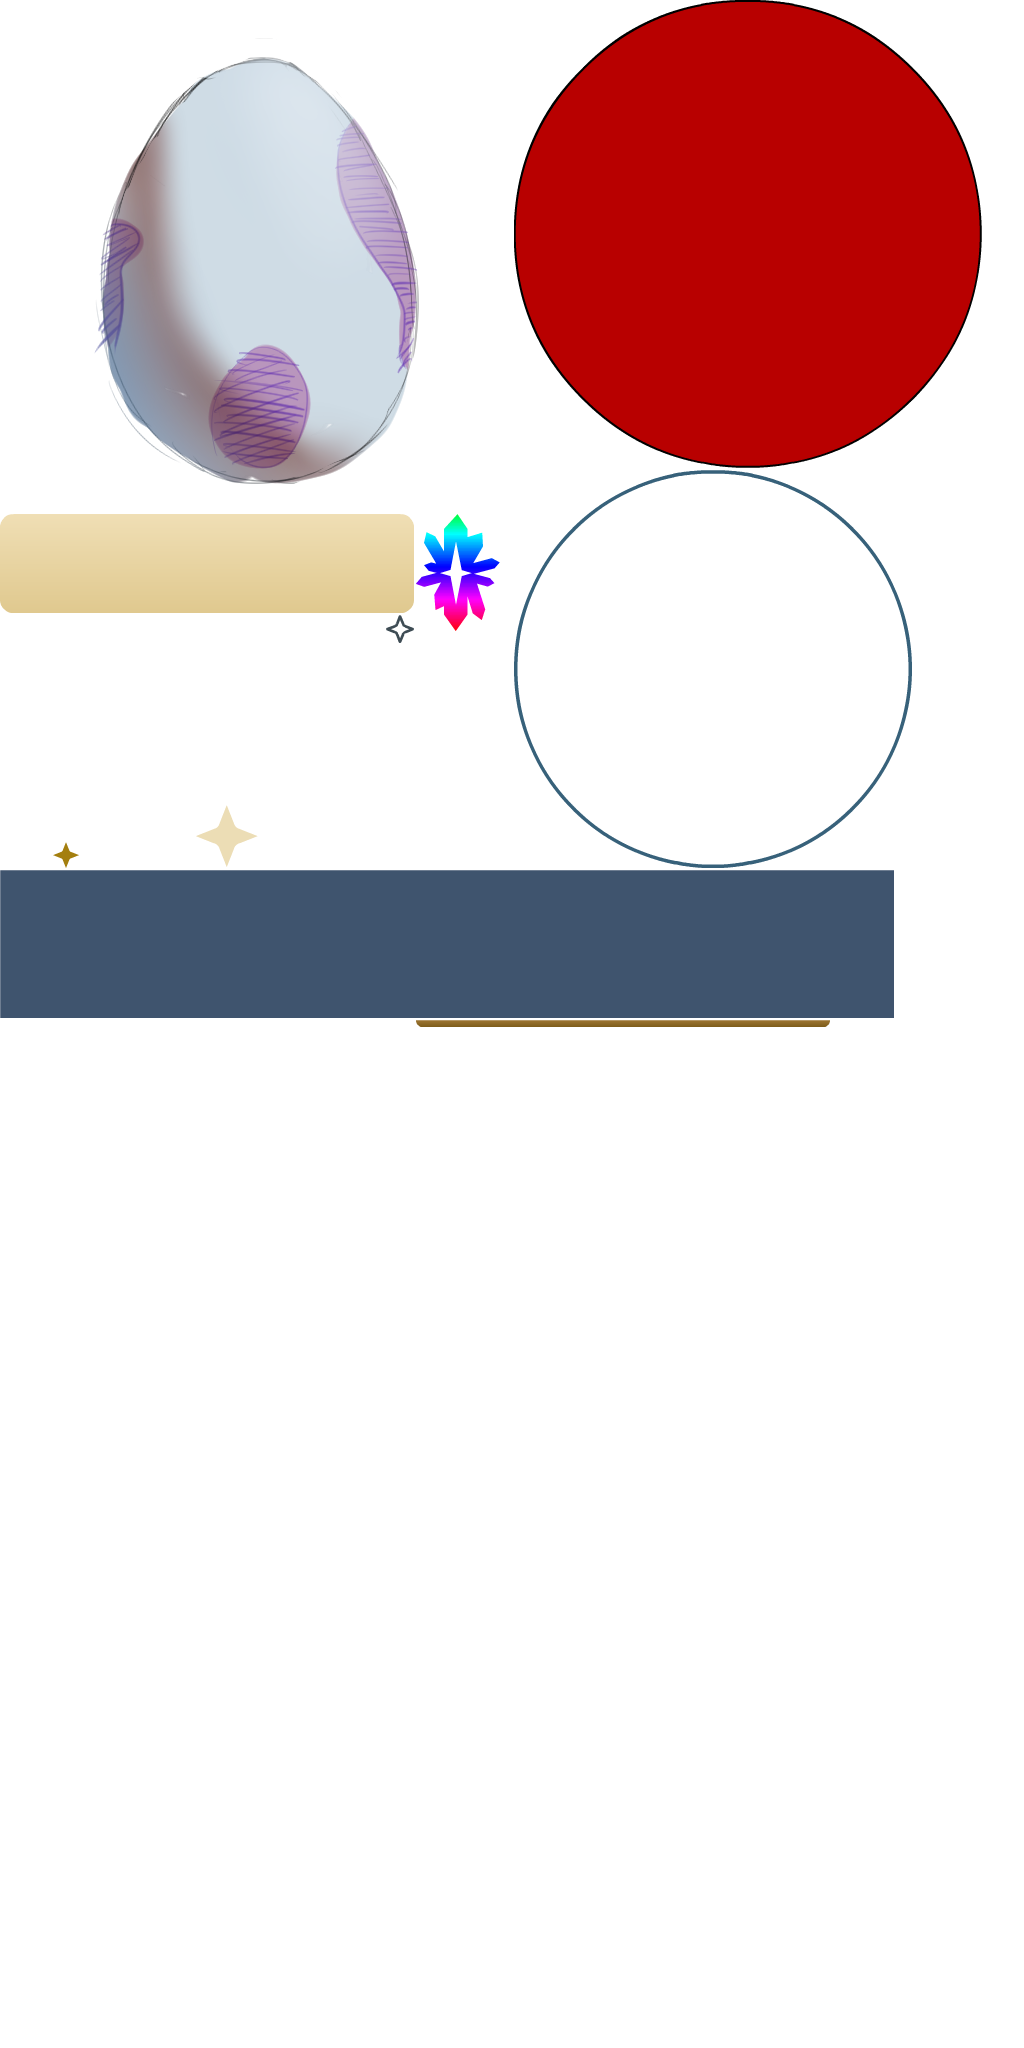
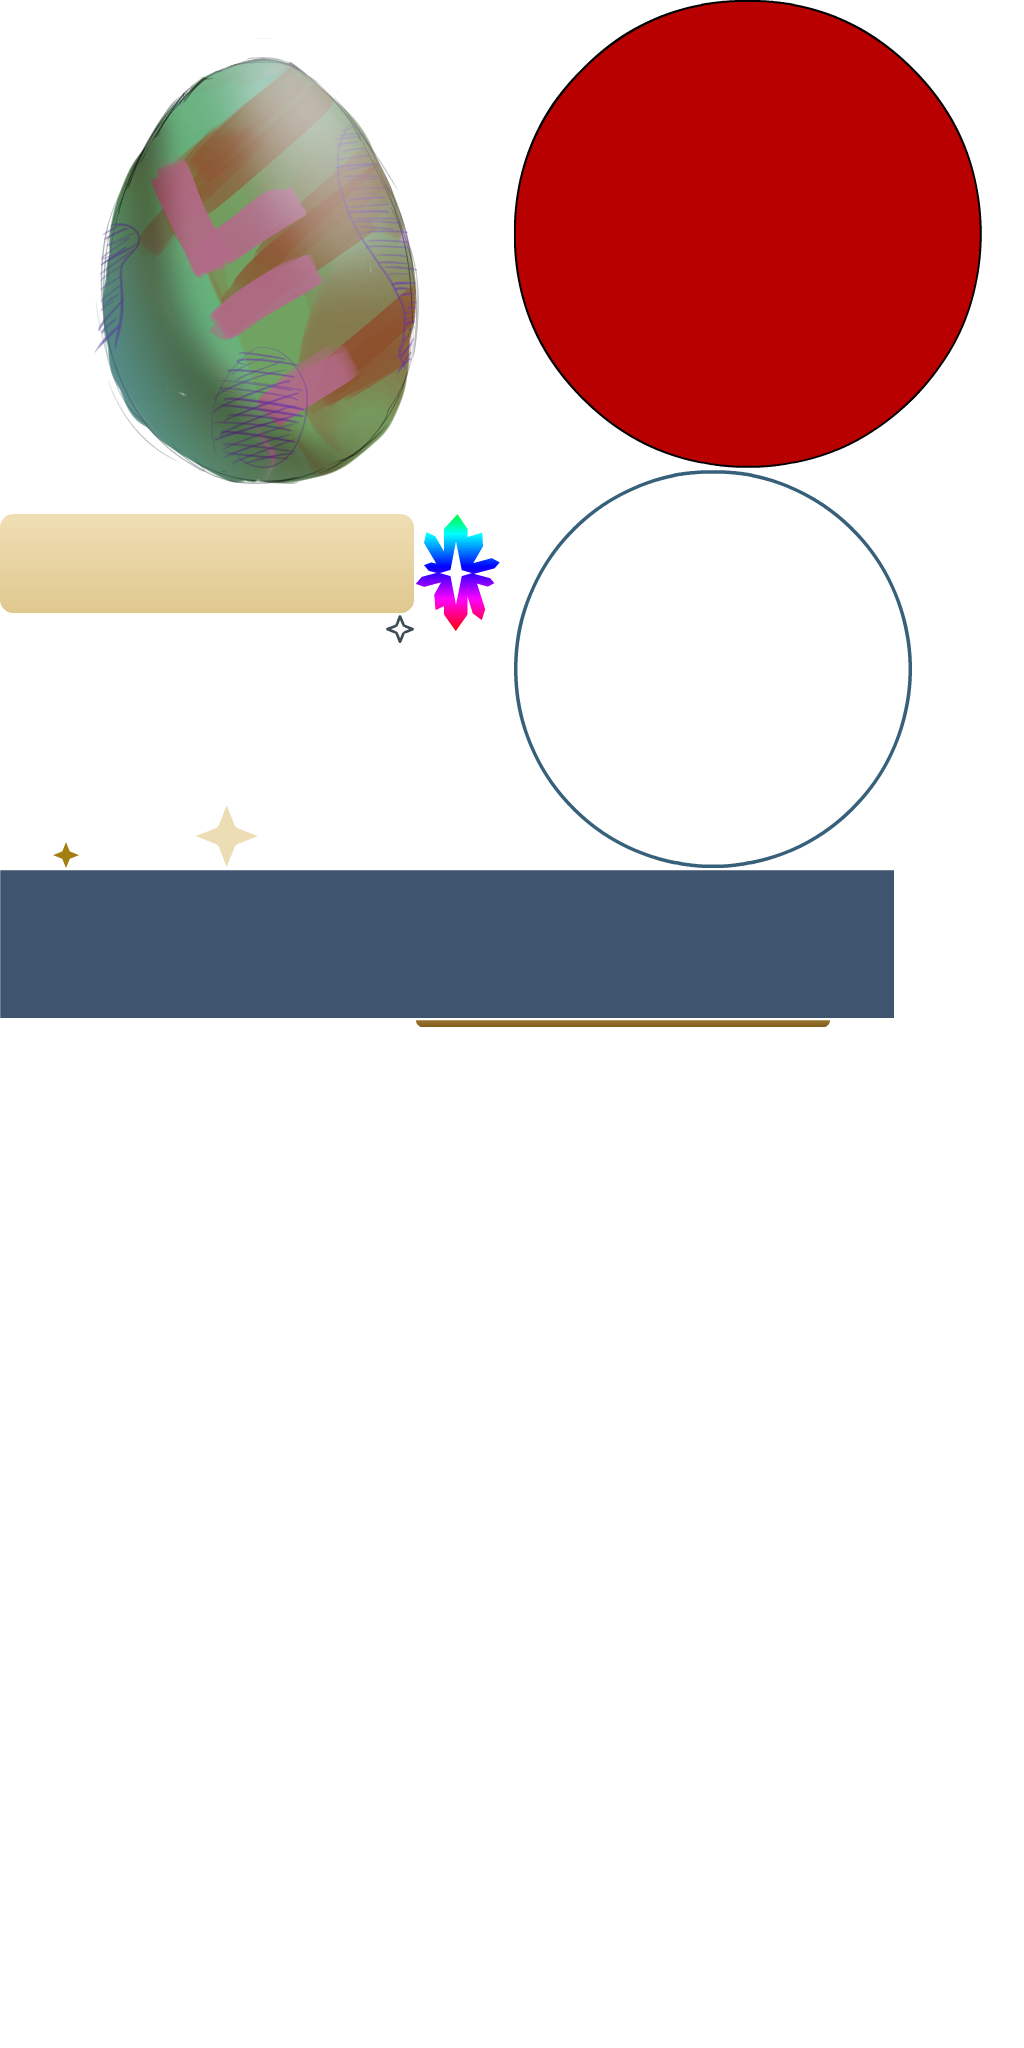
usernamesfixes

Changed region(s): [[0.0938, 0.0312, 0.4062, 0.25]]

diff --git a/index.js b/index.js
@@ -4,7 +4,7 @@ var p; // shortcut to reference prototypes
 var lib={};var ss={};var img={};
 lib.ssMetadata = [
 		{name:"index_atlas_", frames: [[994,0,992,870],[0,0,992,870],[988,872,980,826],[0,872,986,832]]},
-		{name:"index_atlas_2", frames: [[944,770,939,519],[0,770,942,522],[944,1291,894,540],[0,0,768,768],[770,0,768,768],[0,1294,512,512]]},
+		{name:"index_atlas_2", frames: [[944,770,939,519],[0,770,942,522],[944,1291,894,540],[770,0,768,768],[0,1294,512,512],[0,0,768,768]]},
 		{name:"index_atlas_3", frames: [[514,470,398,398],[502,514,4,12],[81,842,29,21],[196,615,188,188],[416,514,84,117],[0,615,194,194],[0,811,51,51],[0,870,894,148],[0,1110,894,20],[196,805,62,62],[514,0,468,468],[53,842,26,26],[386,615,28,28],[0,514,414,99],[416,1020,414,7],[0,1020,414,88],[53,811,46,29],[0,0,512,512]]}
 ];
 
@@ -189,22 +189,22 @@ lib.ssMetadata = [
 
 
 (lib.eggsketches2 = function() {
-	this.initialize(ss["index_atlas_3"]);
-	this.gotoAndStop(17);
-}).prototype = p = new cjs.Sprite();
-
-
-
-(lib.SLUGGITY = function() {
 	this.initialize(ss["index_atlas_2"]);
 	this.gotoAndStop(4);
 }).prototype = p = new cjs.Sprite();
 
 
 
-(lib.terratortleegg = function() {
+(lib.SLUGGITY = function() {
 	this.initialize(ss["index_atlas_2"]);
 	this.gotoAndStop(5);
+}).prototype = p = new cjs.Sprite();
+
+
+
+(lib.terratortleegg = function() {
+	this.initialize(ss["index_atlas_3"]);
+	this.gotoAndStop(17);
 }).prototype = p = new cjs.Sprite();
 // helper functions:
 
@@ -686,15 +686,17 @@ p.nominalBounds = new cjs.Rectangle(0,-21.8,496,456.90000000000003);
 		            return o.slice(6);
 		        }
 		
-		        function usernameOf() {
-		            var u = exportRoot.user;
+		        
+				function usernameOf() {
+					var u = exportRoot.user;
 		
-		            if (!u || !u.username) {
-		                throw new Error("missing-username");
-		            }
+					if (!u || !u.username) {
+						throw new Error("missing-username");
+					}
 		
-		            return String(u.username);
-		        }
+					return String(u.username).trim().toLowerCase();
+				}
+		
 		
 		        function usernameDocumentUrl() {
 		            return FIRESTORE_ROOT +
@@ -15924,9 +15926,9 @@ lib.properties = {
 	color: "#0099CC",
 	opacity: 1.00,
 	manifest: [
-		{src:"images/index_atlas_.png?1791648689113", id:"index_atlas_"},
-		{src:"images/index_atlas_2.png?1791648689114", id:"index_atlas_2"},
-		{src:"images/index_atlas_3.png?1791648689114", id:"index_atlas_3"}
+		{src:"images/index_atlas_.png?1791649532236", id:"index_atlas_"},
+		{src:"images/index_atlas_2.png?1791649532236", id:"index_atlas_2"},
+		{src:"images/index_atlas_3.png?1791649532236", id:"index_atlas_3"}
 	],
 	preloads: []
 };

diff --git a/index.html b/index.html
@@ -22,7 +22,7 @@
   }
 </style>
 <script src="https://code.createjs.com/createjs-2015.11.26.min.js"></script>
-<script src="index.js?1791648689486"></script>
+<script src="index.js?1791649533468"></script>
 <script>
 var canvas, stage, exportRoot, anim_container, dom_overlay_container, fnStartAnimation;
 function init() {
@@ -75,6 +75,6 @@ function handleComplete(evt,comp) {
 		<div id="dom_overlay_container" style="pointer-events:none; overflow:hidden; width:1280px; height:720px; position: absolute; left: 0px; top: 0px; display: none;">
 		</div>
 	</div>
-    <div id='_preload_div_' style='position:absolute; top:0; left:0; display: inline-block; height:720px; width: 1280px; text-align: center;'>	<span style='display: inline-block; height: 100%; vertical-align: middle;'></span>	<img src=images/_preloader.gif?1791648689487 style='vertical-align: middle; max-height: 100%'/></div>
+    <div id='_preload_div_' style='position:absolute; top:0; left:0; display: inline-block; height:720px; width: 1280px; text-align: center;'>	<span style='display: inline-block; height: 100%; vertical-align: middle;'></span>	<img src=images/_preloader.gif?1791649533469 style='vertical-align: middle; max-height: 100%'/></div>
 </body>
 </html>
